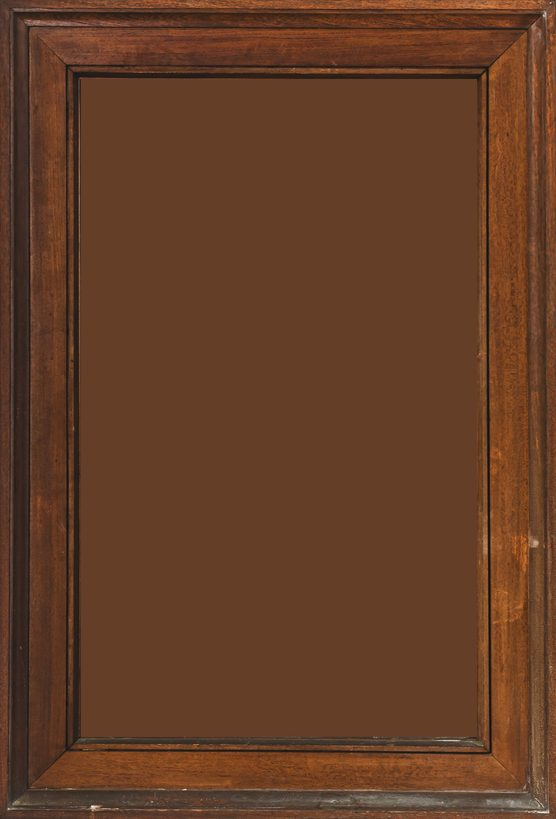
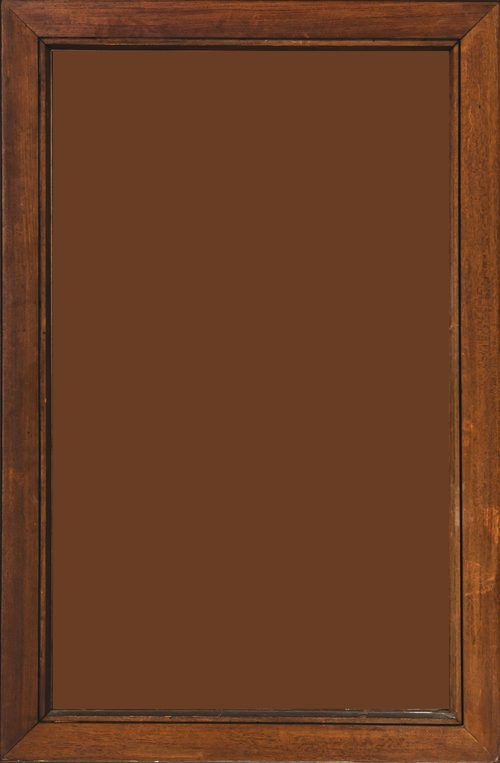
Crop the wood frame's outer edge for a thinner 26px border

Changed region(s): [[0.0, 0.0, 1.0, 1.0]]

diff --git a/css/materials.css b/css/materials.css
@@ -64,13 +64,13 @@
   box-shadow: 0 26px 44px -16px rgba(0, 0, 0, .7);
 }
 
-/* 9-slice wood frame: 556px image, slices 79 79 82 81 device px, drawn at half size so a 40px border stays sharp on 2x screens.
+/* 9-slice wood frame: 500px image, slices 51 51 54 53 device px, drawn at half size so a 26px border stays sharp on 2x screens.
    The ::after overlay sits over the content, so it can put the inset shadow where the content meets the frame and, for --glossy, a sheen over the image. */
 .fam-wood-frame {
-  --fam-frame-width: 40px;
+  --fam-frame-width: 26px;
   position: relative;
   border: var(--fam-frame-width) solid transparent;
-  border-image: var(--fam-tex-wood-frame) 79 79 82 81 / var(--fam-frame-width) / 0 stretch;
+  border-image: var(--fam-tex-wood-frame) 51 51 54 53 / var(--fam-frame-width) / 0 stretch;
   background: #2b1a10;
   box-shadow: 0 2px 4px rgba(0, 0, 0, .4), 0 22px 36px -12px rgba(0, 0, 0, .65);
 }

diff --git a/tools/texture-pipeline/make_wood_frame.py b/tools/texture-pipeline/make_wood_frame.py
@@ -1,17 +1,21 @@
 """Cut a 9-slice picture frame from a photo of a frame with a see-through opening.
 
-usage: make_wood_frame.py SOURCE OUTPUT OUTPUT_WIDTH
+usage: make_wood_frame.py SOURCE OUTPUT OUTPUT_WIDTH OUTER_CROP
 
 The opening is filled with the frame's average color, because border-image discards the middle slice.
 That lets the output be a JPEG instead of an alpha PNG.
+OUTER_CROP is how many pixels, at the output size, to trim off the frame's outer edge to make the border thinner.
 Prints the border-image-slice values (top right bottom left) for the output size.
 """
 import sys
 from PIL import Image, ImageStat
 
-source_path, output_path, output_width = sys.argv[1], sys.argv[2], int(sys.argv[3])
+source_path, output_path, output_width, outer_crop = sys.argv[1], sys.argv[2], int(sys.argv[3]), int(sys.argv[4])
 
 image = Image.open(source_path).convert("RGBA")
+source_crop = round(outer_crop * image.width / output_width)
+image = image.crop((source_crop, source_crop, image.width - source_crop, image.height - source_crop))
+output_width -= 2 * outer_crop
 alpha = image.getchannel("A")
 opening = alpha.point(lambda value: 255 if value == 0 else 0).getbbox()
 if opening is None:

diff --git a/CREDITS.md b/CREDITS.md
@@ -22,7 +22,7 @@ Every texture in `assets/` is processed from a photograph on Unsplash. Unsplash 
 | `leather-fill-black-tile.jpg` | `leather-stitched_olga-kovalski-5_GUH12XnNc-unsplash.jpg` | olga-kovalski | `soft_interior.py` |
 | `leather-frame-tan-soft.png` | `leather-stitched_olga-kovalski-5_GUH12XnNc-unsplash.jpg` | olga-kovalski | `make_stitched_frame.py`, `soft_interior.py`, then `tan_leather.py` |
 | `leather-frame-black-soft.png` | `leather-stitched_olga-kovalski-5_GUH12XnNc-unsplash.jpg` | olga-kovalski | `make_stitched_frame.py`, then `soft_interior.py` |
-| `wood-frame.jpg` | `wood-frame_se-tsuchiya--EkbLo1LdEM-unsplash.png` | se-tsuchiya | `make_wood_frame.py ... 556` |
+| `wood-frame.jpg` | `wood-frame_se-tsuchiya--EkbLo1LdEM-unsplash.png` | se-tsuchiya | `make_wood_frame.py ... 556 28` |
 
 The scripts are in `tools/texture-pipeline/` and the source photos are in `textures/`.
 

diff --git a/README.md b/README.md
@@ -72,7 +72,7 @@ For any other color, use `fam-stitched`: a CSS stitched border whose thread is t
 
 ### Wood frame
 
-`fam-wood-frame` is a moulded wood frame with a drop shadow outside and an inset shadow where the content meets the frame. Put a photo, a page or a corkboard inside it. The border is 40px; change it with `--fam-frame-width`.
+`fam-wood-frame` is a moulded wood frame with a drop shadow outside and an inset shadow where the content meets the frame. Put a photo, a page or a corkboard inside it. The border is 26px; change it with `--fam-frame-width`.
 
 ```html
 <figure class="fam-wood-frame"><img src="photo.jpg" alt="..."></figure>
